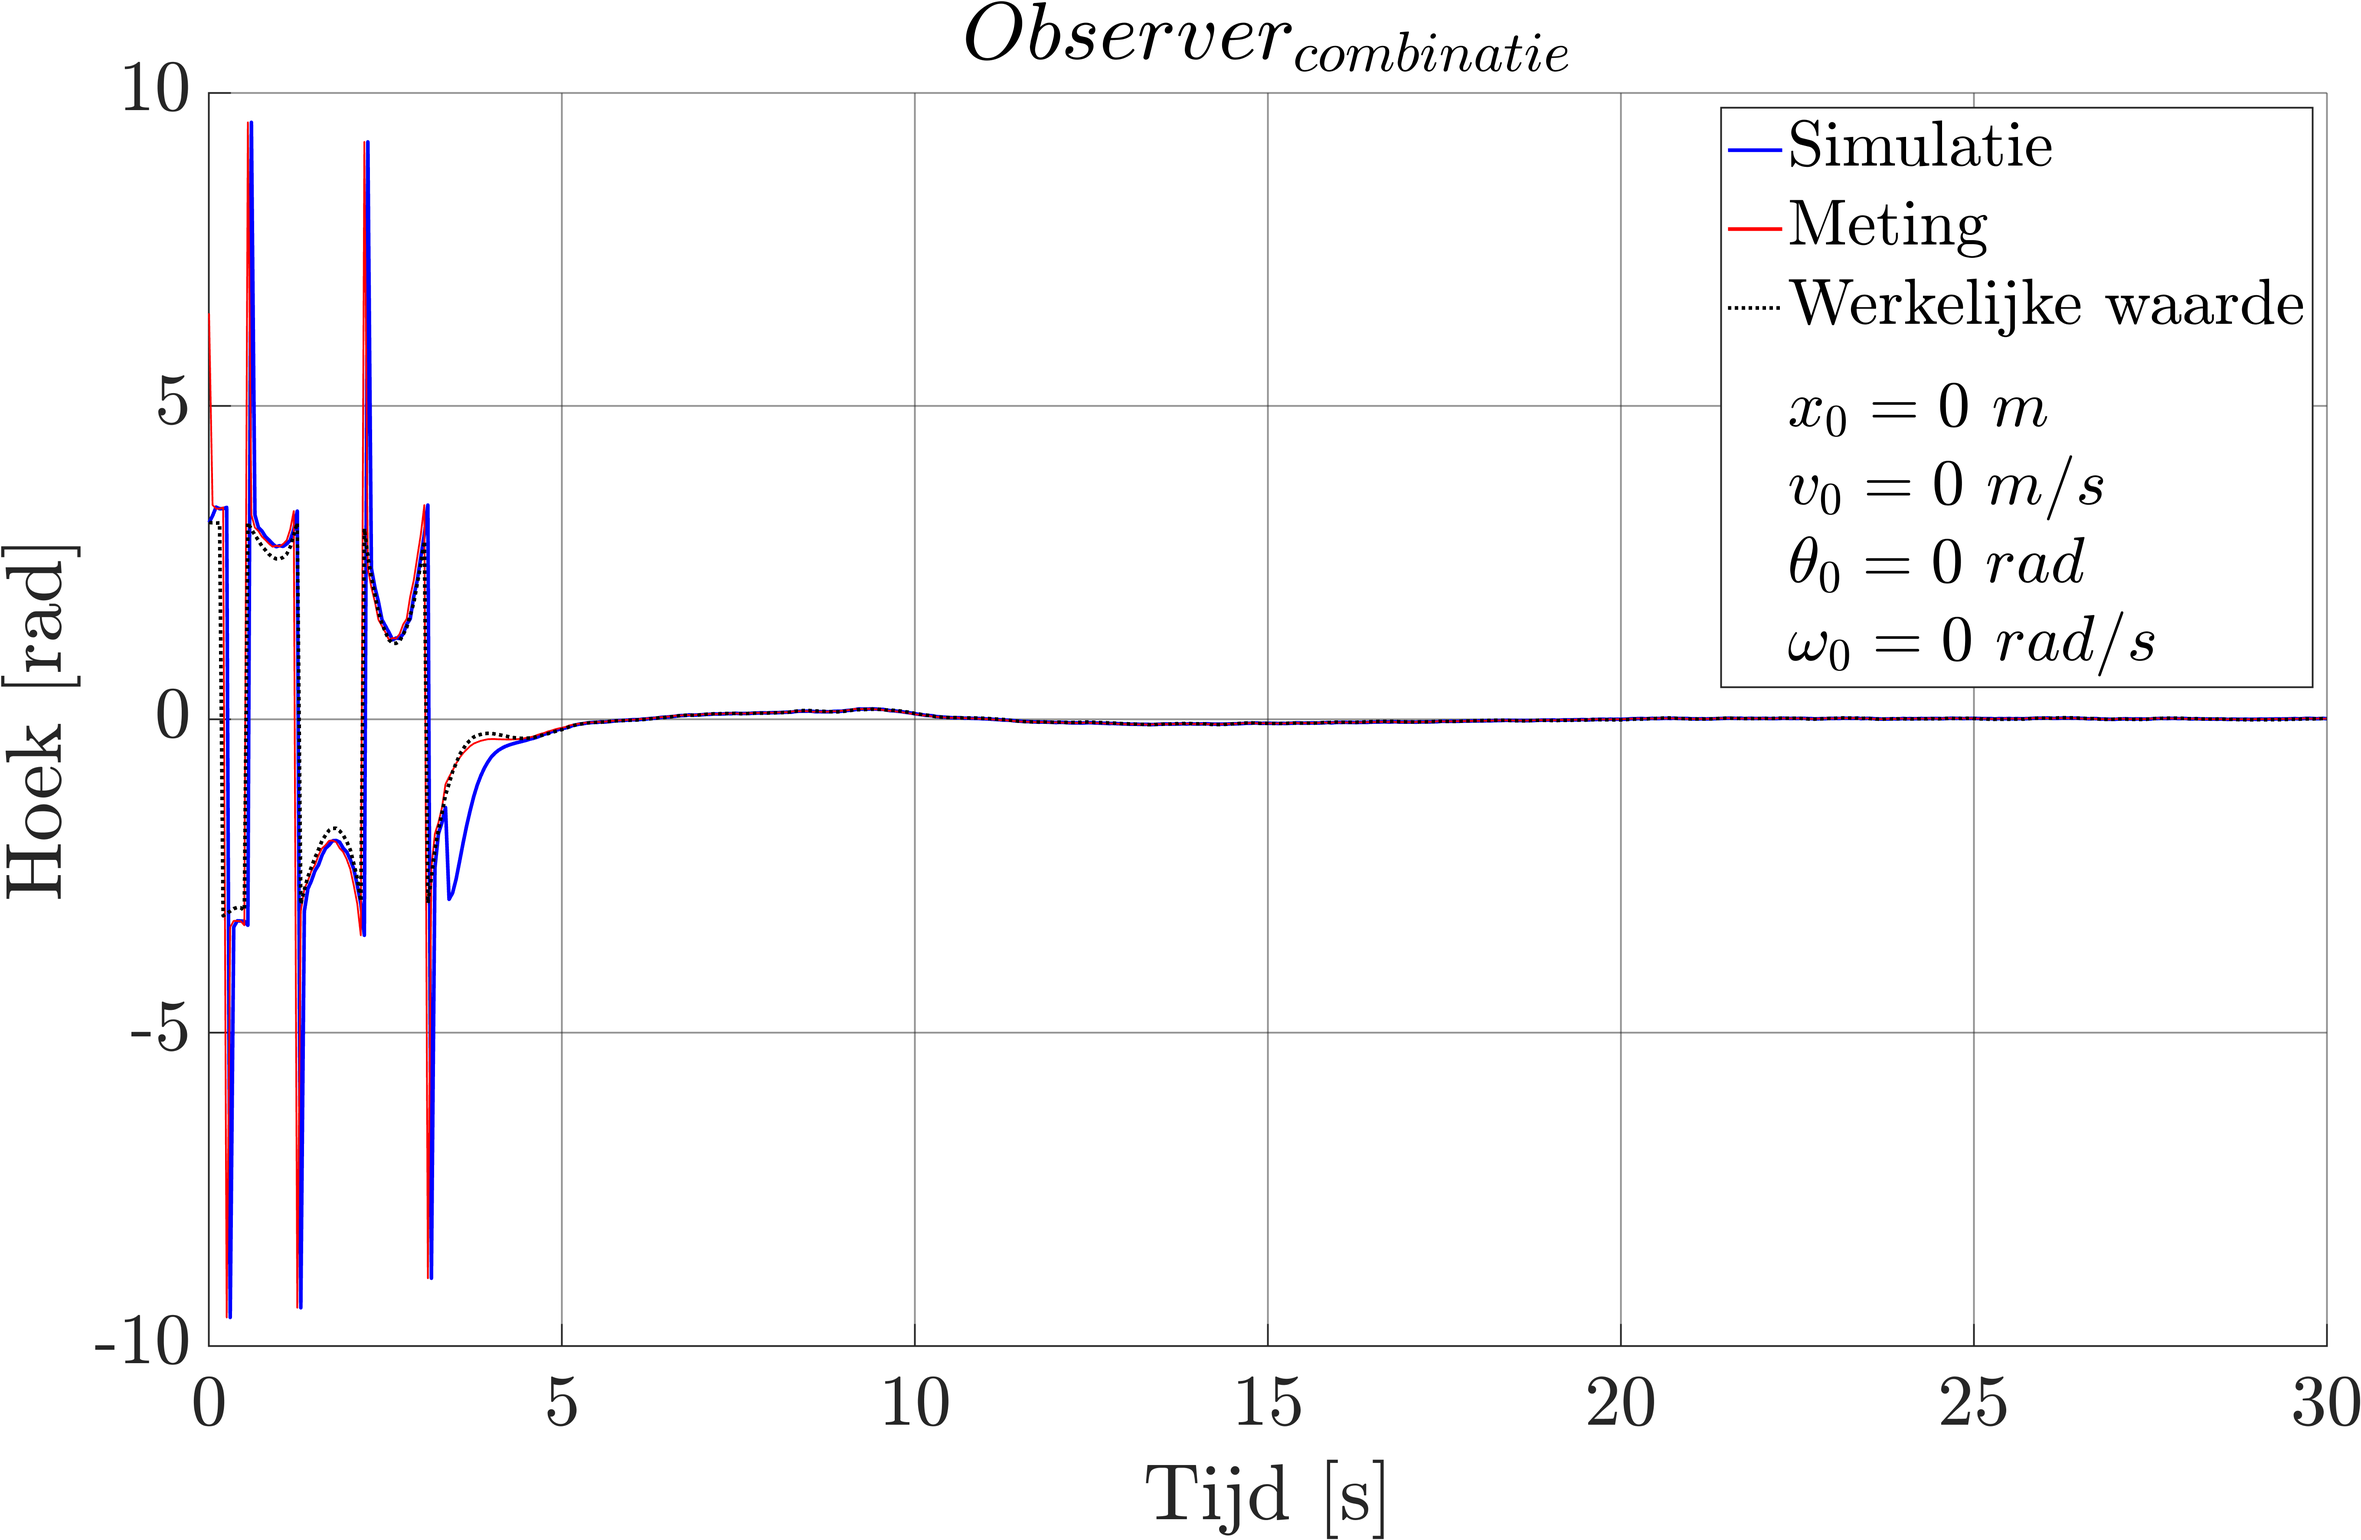
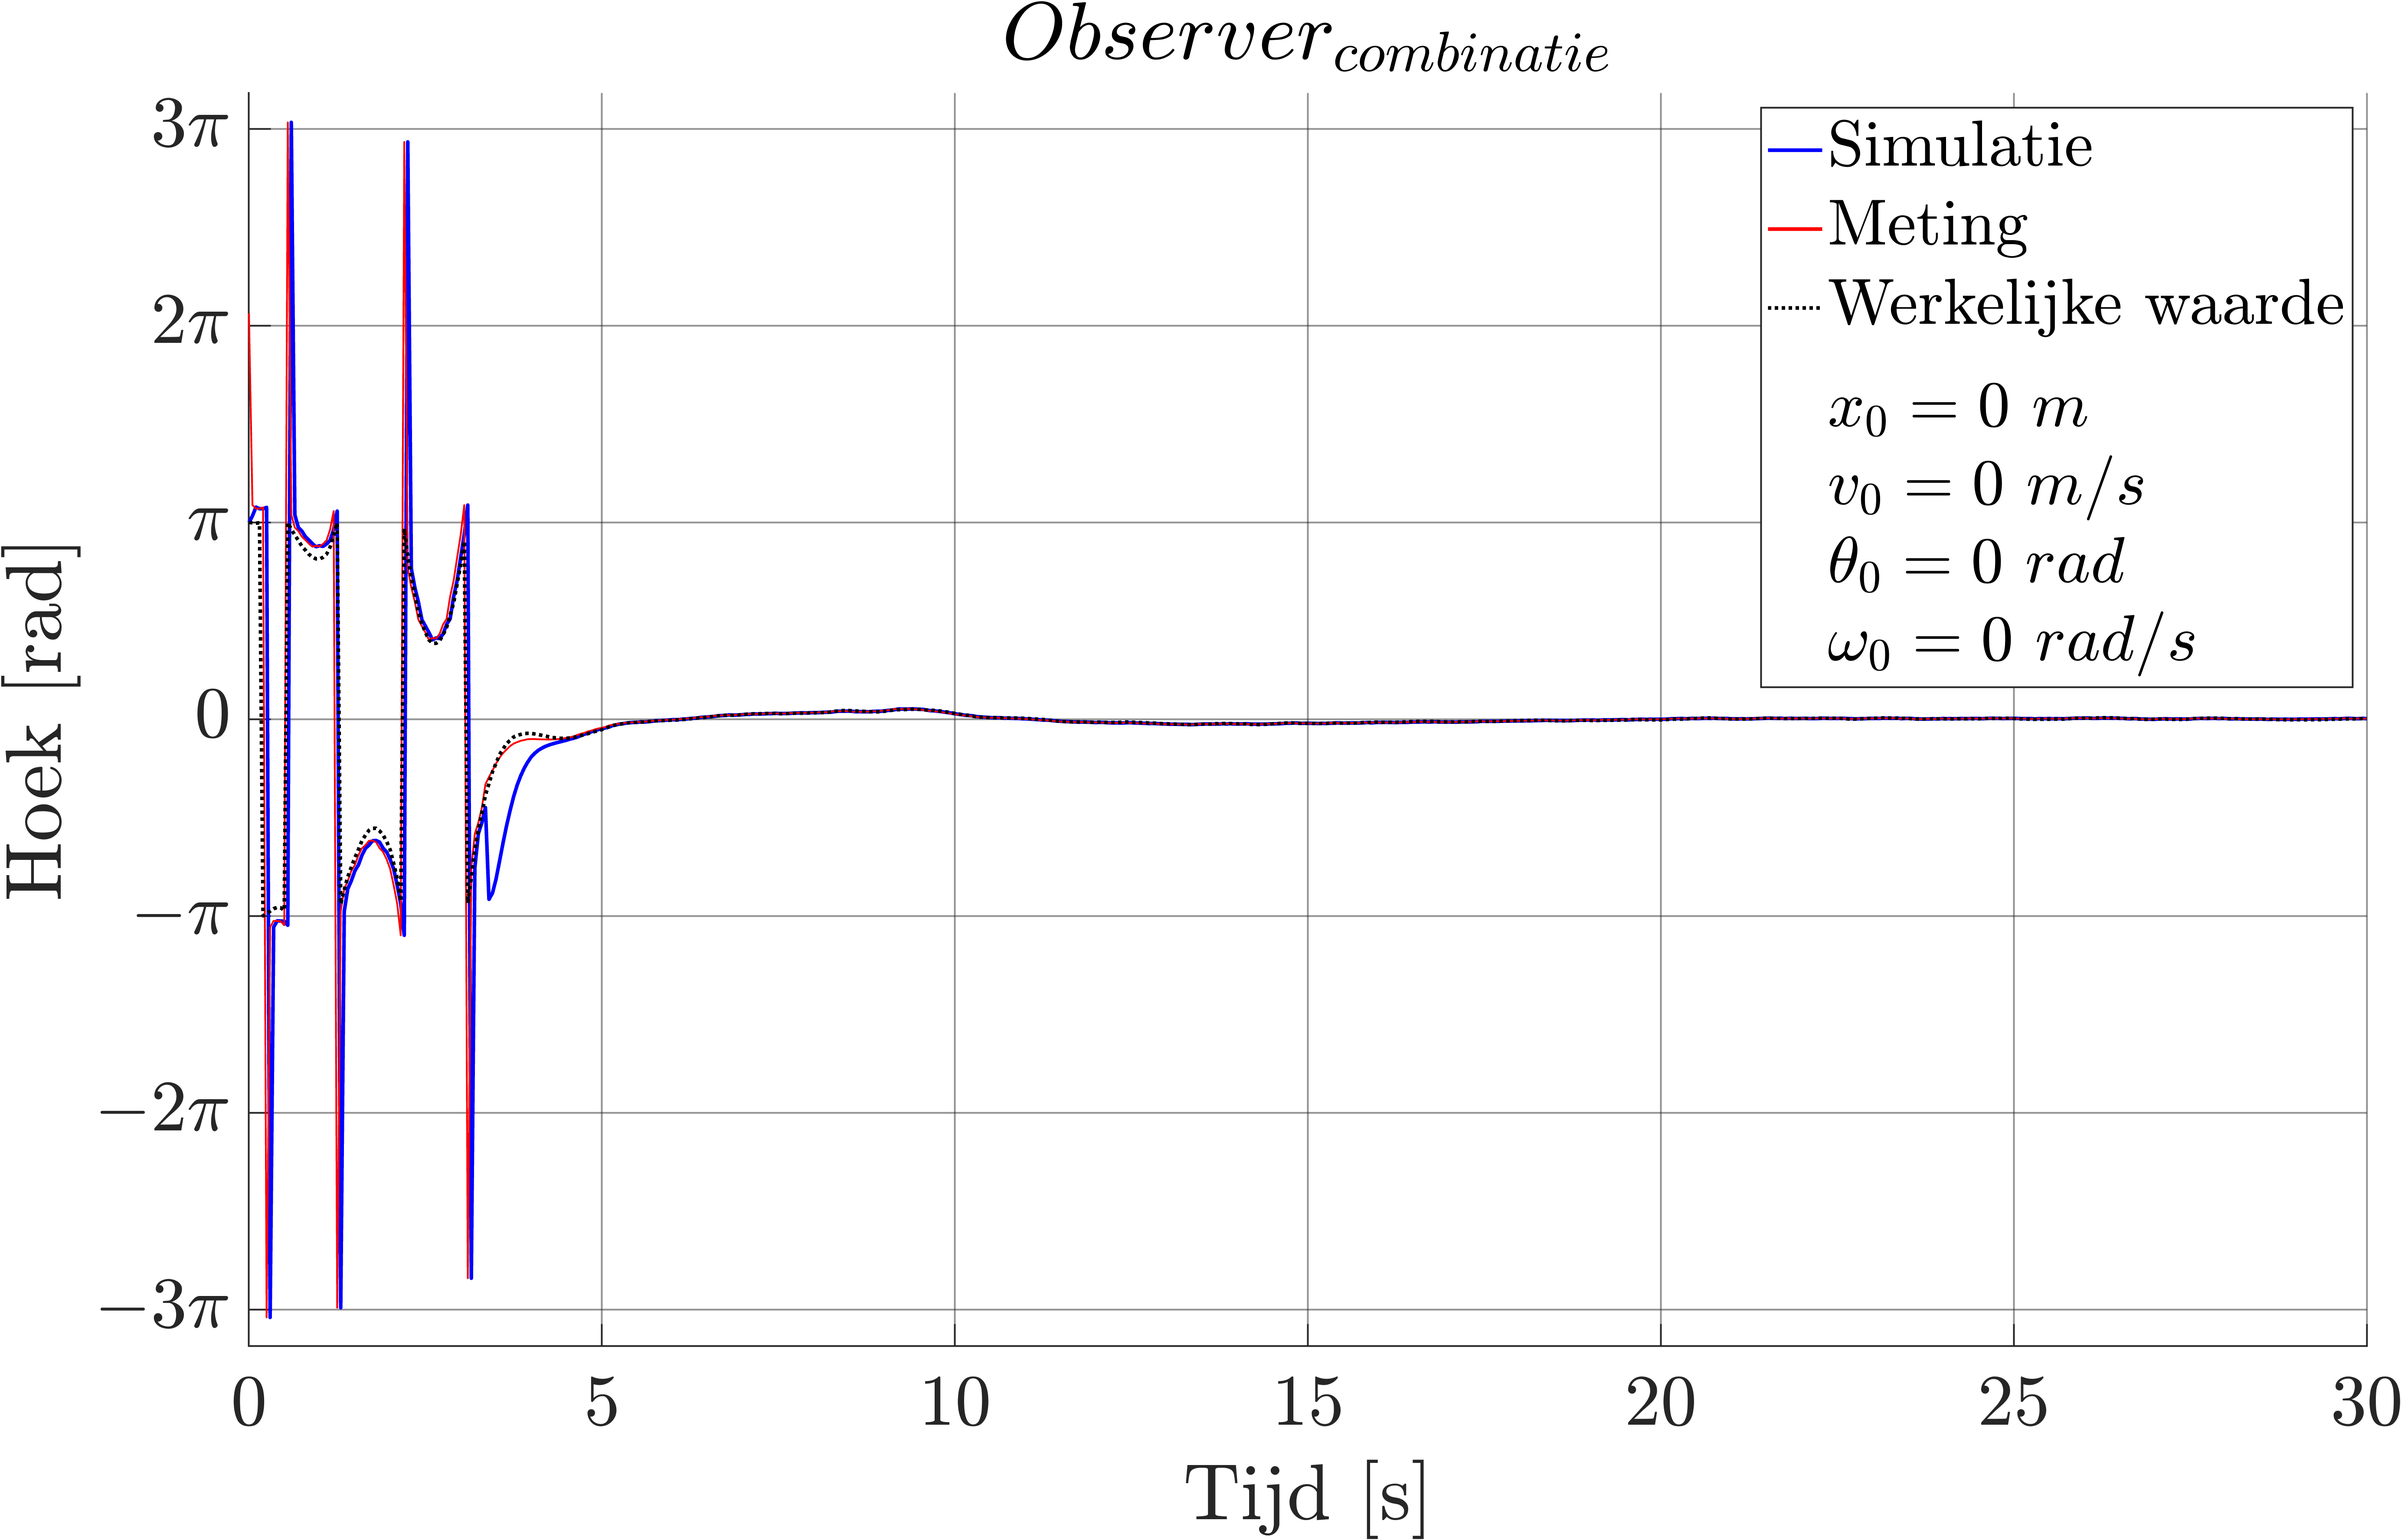
Plots

diff --git a/CleanFile.m b/CleanFile.m
@@ -216,7 +216,7 @@ x = Y(1,:); theta = Y(2,:); u = Y(3,:);
 x_hat = Y(4,:); v_hat = Y(5,:); theta_hat = Y(6,:); theta_dot_hat = Y(7,:);
 real_x = Y(8,:); real_v = Y(9,:); real_theta = Y(10,:); real_theta_dot = Y(11,:);
 u = [Y(3,:);x;theta];
-%% Plot State Observer
+%% Plot State Observer 1
 [y] = lsim(observer1,u,ts,[0 0 pi 0]);
 F = figure;
 hold on
@@ -260,14 +260,12 @@ plot(nan,nan,'k--')
 plot(nan,nan,'k:')
 plot(nan,nan,'w')
 plot(nan,nan,'w')
-set(gca,'YTick',-2*pi:pi:2*pi)
-set(gca,'YTickLabel',{'$-2\pi$','$-\pi$','0','$\pi$','2$\pi$'})
 ylabel('Hoeksnelheid [rad/s]')
 xlabel('Tijd [s]')
 title('\textbf{$Observer_{snel}$}','FontSize',45)
 legend('Simulatie','Meting','Werkelijke waarde',newline+"$x_0 = 0\ m$"+newline+"$v_0 = 0\ m/s$"+newline+"$\theta_0 = \pi\ rad$"+newline+"$\omega_0 = 0\ rad/s$")
 %exportgraphics(F,PATH+"/Plots-Video/Observer/ObserverSnelVR.png",'Resolution',300)
-%% Simulatie State Observer
+%% Simulatie State Observer 2
 arduino = tcpclient('127.0.0.1', 6012, 'Timeout', 2*10^3);
 n_samples = 30/0.05+1;
 ts = (0:n_samples-1)*Ts;
@@ -303,8 +301,8 @@ plot(nan,nan,'k--')
 plot(nan,nan,'k:')
 plot(nan,nan,'w')
 plot(nan,nan,'w')
-set(gca,'YTick',-2*pi:pi:2*pi)
-set(gca,'YTickLabel',{'$-2\pi$','$-\pi$','0','$\pi$','2$\pi$'})
+set(gca,'YTick',-3*pi:pi:3*pi)
+set(gca,'YTickLabel',{'$-3\pi$','$-2\pi$','$-\pi$','0','$\pi$','2$\pi$','$3\pi$'})
 ylabel('Hoek [rad]')
 xlabel('Tijd [s]')
 title('\textbf{$Observer_{traag}$}','FontSize',45)
@@ -350,7 +348,7 @@ x = Y(1,:); theta = Y(2,:); u = Y(3,:);
 x_hat = Y(4,:); v_hat = Y(5,:); theta_hat = Y(6,:); theta_dot_hat = Y(7,:);
 real_x = Y(8,:); real_v = Y(9,:); real_theta = Y(10,:); real_theta_dot = Y(11,:);
 u = [Y(3,:);x;theta];
-%% Plot State Observer positie
+%%
 [y1] = lsim(observer1,u,ts,[0 0 pi 0]);
 [y2] = lsim(observer2,u,ts,[0 0 pi 0]);
 for i = 1:length(ts)
@@ -411,12 +409,14 @@ plot(nan,nan,'b-')
 plot(nan,nan,'r-')
 plot(nan,nan,'k:')
 plot(nan,nan,'w')
+set(gca,'YTick',-3*pi:pi:3*pi)
+set(gca,'YTickLabel',{'$-3\pi$','$-2\pi$','$-\pi$','0','$\pi$','2$\pi$','$3\pi$'})
 ylabel('Hoek [rad]')
 xlabel('Tijd [s]')
 title('\textbf{$Observer_{combinatie}$}','FontSize',45)
 legend('Simulatie','Meting','Werkelijke waarde',newline+"$x_0 = 0\ m$"+newline+"$v_0 = 0\ m/s$"+newline+"$\theta_0 = 0\ rad$"+newline+"$\omega_0 = 0\ rad/s$",'Location','northeast')
 %exportgraphics(F,PATH+"/Plots-Video/Observer/ObserverCombA.png",'Resolution',300)
-%% Plot State Observer snelheid
+%%
 F = figure;
 hold on
 colororder({'b','r'})

diff --git a/controller.py b/controller.py
@@ -43,7 +43,6 @@ class Controller:
         self.Kd = np.zeros((1, 4))
         self.Ki = 1
         self.SE = 0
-        self.Kp = 0
 
     
     def set_params(self, parameters):
@@ -147,7 +146,6 @@ class Controller:
             # Set observer params
             self.observer.set_arrays(L1, A1, B1, C1, L2)
 
-            self.Kp = parameters[49]  # Keep 0 for ESSF I, change to Kp for ESSF PI
 
     def __call__(self, y):
         """Call controller with measurement y
@@ -262,9 +260,8 @@ class Controller:
             out = list(y) + [u] + list(np.concatenate(self.x_hat))
 
         elif params.mode == 'EXTENDED':
-            current_err = self.x_hat[0] - params.w
-            self.SE += current_err
-            u = -np.matmul(self.Kd,self.x_hat) - self.Ki*self.SE + self.Kp*current_err
+            self.SE += self.x_hat[0] - params.w
+            u = -np.matmul(self.Kd,self.x_hat) - self.Ki*self.SE
             if abs(u) > 10:
                 u = np.sign(u)*10
             self.SE = -(u+np.matmul(self.Kd,self.x_hat))/self.Ki
